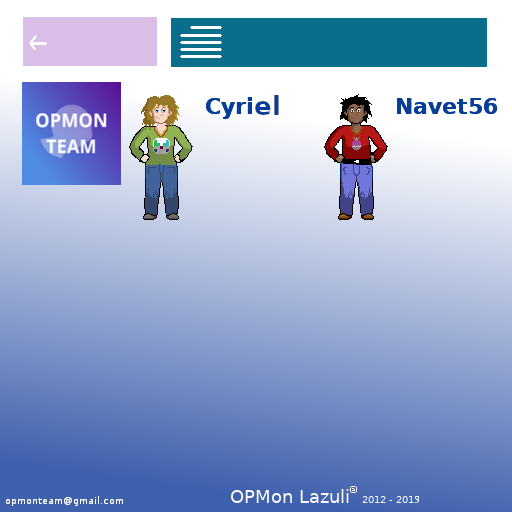
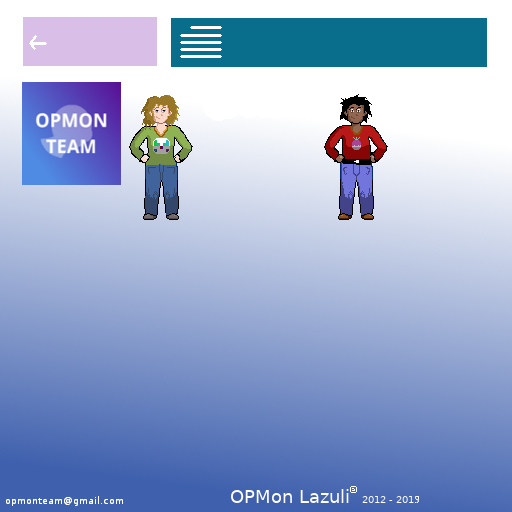
Update Credits

Changed region(s): [[0.75, 0.1875, 0.9688, 0.25], [0.4062, 0.1875, 0.5625, 0.25]]

diff --git a/src/opmon/view/OptionsMenu.cpp b/src/opmon/view/OptionsMenu.cpp
@@ -110,6 +110,10 @@ namespace OpMon {
             txtCre9.setString(kget("options.credit.9"));
             txtCre9.setFont(data.getUiDataPtr()->getFont());
             txtCre9.setCharacterSize(13);
+						txtCre10.setString(kget("options.credit.10"));
+            txtCre10.setFont(data.getUiDataPtr()->getFont());
+            txtCre10.setCharacterSize(20);
+						txtCre10.setSfmlColor(sf::Color::Blue);
 
             txtCtrlChange.setString(kget("options.ctrl.change"));
             txtCtrlChange.setFont(data.getUiDataPtr()->getFont());
@@ -171,6 +175,7 @@ namespace OpMon {
             txtCre83.setPosition(10, 420);
             txtCre84.setPosition(10, 437);
             txtCre9.setPosition(450, 488);
+						txtCre10.setPosition(195, 100);
 
             txtCtrlChange.setPosition(33.0, 91.0);
 
@@ -362,6 +367,7 @@ namespace OpMon {
             frame.draw(txtCre83);
             frame.draw(txtCre84);
             frame.draw(txtCre9);
+						frame.draw(txtCre10);
 
             rectSurb.setPosition(curPosOpt[0]);
             rectSurb.setScale(curSizeLang[0]);

diff --git a/src/opmon/view/OptionsMenu.hpp b/src/opmon/view/OptionsMenu.hpp
@@ -89,6 +89,7 @@ namespace OpMon {
             sf::Text txtCre83;
             sf::Text txtCre84;
             sf::Text txtCre9;
+						sf::Text txtCre10;
             sf::Text txtOpt1;
             sf::Text txtOpt2;
             sf::Text txtOpt3;
